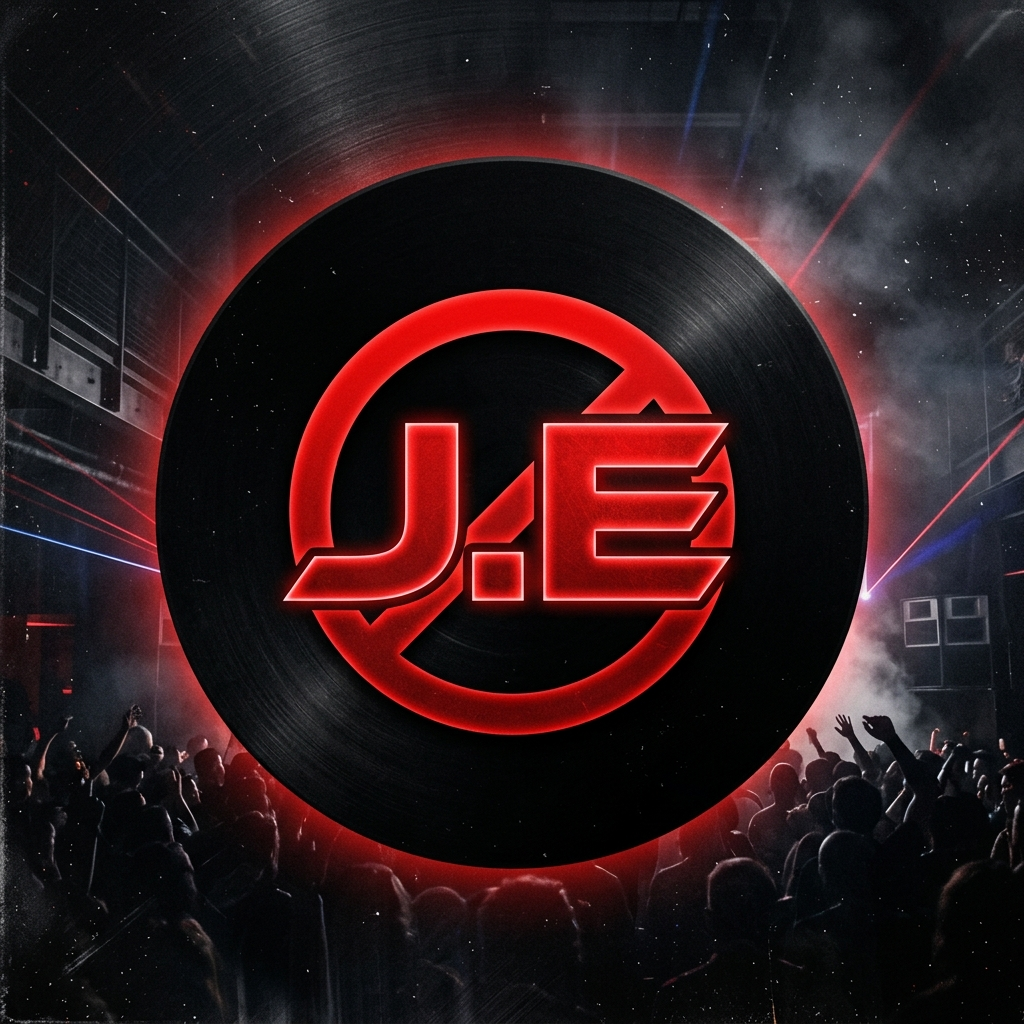
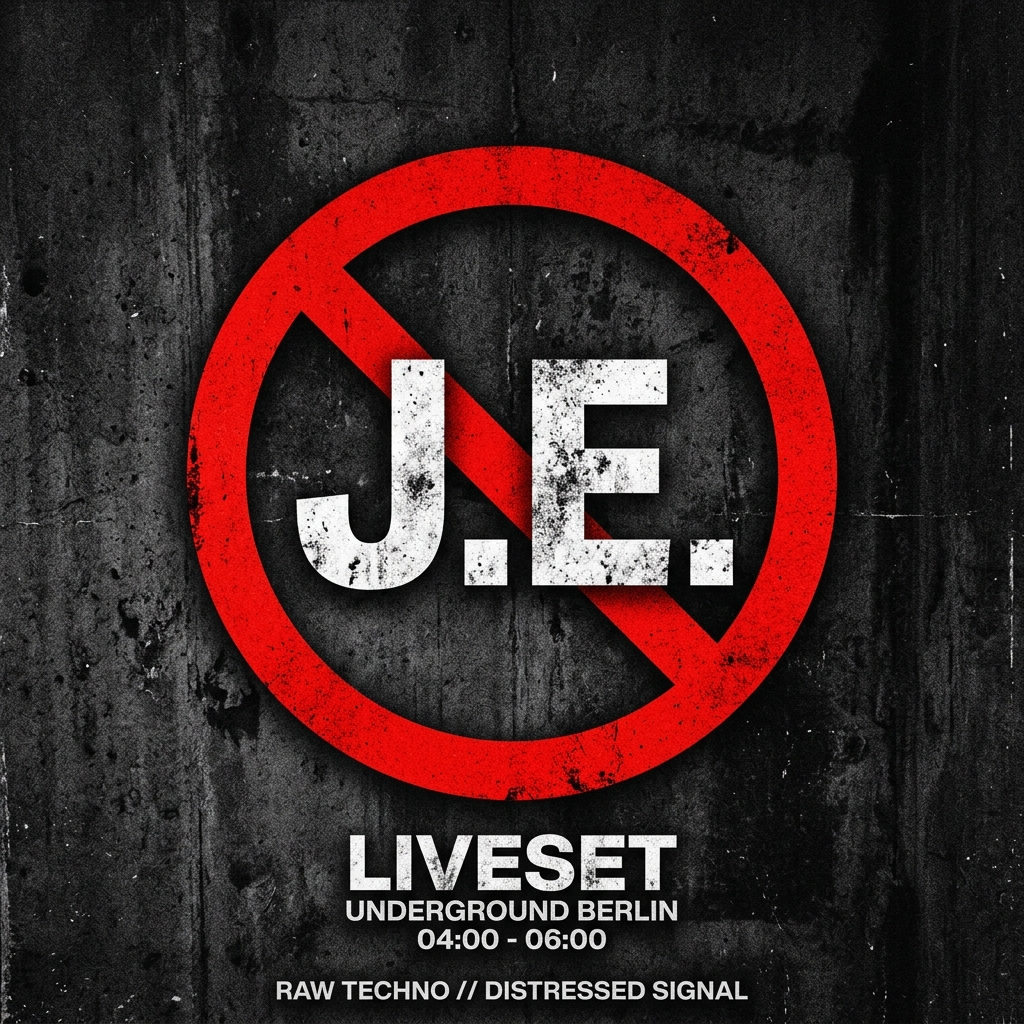
fix: update recording image to resolve visual discrepancies

diff --git a/src/lib/stats-logic.js b/src/lib/stats-logic.js
@@ -5,6 +5,12 @@ const CACHE_CONTROL = 'public, s-maxage=10, stale-while-revalidate=30';
 const SEED_PLAYS = {
     secret_set_2025_12_22: 44
 };
+const EMPTY_STATS_ROW = {
+    plays: 0,
+    likes: 0,
+    dislikes: 0,
+    last_played_at: null
+};
 
 const VALID_UPDATE_TYPES = new Set([
     'play',
@@ -36,8 +42,14 @@ const ensureInitialized = async (sql) => {
                     id TEXT PRIMARY KEY,
                     plays INTEGER DEFAULT 0,
                     likes INTEGER DEFAULT 0,
-                    dislikes INTEGER DEFAULT 0
+                    dislikes INTEGER DEFAULT 0,
+                    last_played_at TIMESTAMP NULL
                 );
+            `;
+
+            await sql`
+                ALTER TABLE track_stats
+                ADD COLUMN IF NOT EXISTS last_played_at TIMESTAMP NULL;
             `;
 
             // Bookings Table
@@ -54,8 +66,8 @@ const ensureInitialized = async (sql) => {
 
             for (const [id, plays] of Object.entries(SEED_PLAYS)) {
                 await sql`
-                    INSERT INTO track_stats (id, plays, likes, dislikes)
-                    VALUES (${id}, ${plays}, 0, 0)
+                    INSERT INTO track_stats (id, plays, likes, dislikes, last_played_at)
+                    VALUES (${id}, ${plays}, 0, 0, NULL)
                     ON CONFLICT (id) DO UPDATE
                     SET plays = GREATEST(track_stats.plays, EXCLUDED.plays);
                 `;
@@ -121,16 +133,27 @@ export const handleStatsRequest = async ({
         }
 
         try {
-            await sql`INSERT INTO track_stats (id, plays, likes, dislikes) VALUES (${id}, 0, 0, 0) ON CONFLICT (id) DO NOTHING;`;
+            await sql`
+                INSERT INTO track_stats (id, plays, likes, dislikes, last_played_at)
+                VALUES (${id}, 0, 0, 0, NULL)
+                ON CONFLICT (id) DO NOTHING;
+            `;
 
-            if (type === 'play') await sql`UPDATE track_stats SET plays = plays + 1 WHERE id = ${id}`;
+            if (type === 'play') {
+                await sql`
+                    UPDATE track_stats
+                    SET plays = plays + 1,
+                        last_played_at = CURRENT_TIMESTAMP
+                    WHERE id = ${id}
+                `;
+            }
             else if (type === 'like') await sql`UPDATE track_stats SET likes = likes + 1 WHERE id = ${id}`;
             else if (type === 'dislike') await sql`UPDATE track_stats SET dislikes = dislikes + 1 WHERE id = ${id}`;
             else if (type === 'unlike') await sql`UPDATE track_stats SET likes = GREATEST(0, likes - 1) WHERE id = ${id}`;
             else if (type === 'undislike') await sql`UPDATE track_stats SET dislikes = GREATEST(0, dislikes - 1) WHERE id = ${id}`;
 
             const [updated] = await sql`SELECT * FROM track_stats WHERE id = ${id}`;
-            return { status: 200, headers, body: updated || { id, plays: 0, likes: 0, dislikes: 0 } };
+            return { status: 200, headers, body: updated || { id, ...EMPTY_STATS_ROW } };
         } catch (error) {
             return { status: 500, headers, body: errorBody('Database update failed', error?.message) };
         }

diff --git a/server/stats-core.js b/server/stats-core.js
@@ -4,6 +4,12 @@ export const statsCorsHeaders = buildCorsHeaders('GET, POST, OPTIONS');
 export const statsCacheHeaders = {
     'Cache-Control': 'public, max-age=0, s-maxage=10, stale-while-revalidate=30'
 };
+const emptyStatsRow = {
+    plays: 0,
+    likes: 0,
+    dislikes: 0,
+    last_played_at: null
+};
 
 const seedPlays = {
     secret_set_2025_12_22: 44
@@ -20,14 +26,20 @@ const ensureInit = async (sql) => {
                 id TEXT PRIMARY KEY,
                 plays INTEGER DEFAULT 0,
                 likes INTEGER DEFAULT 0,
-                dislikes INTEGER DEFAULT 0
+                dislikes INTEGER DEFAULT 0,
+                last_played_at TIMESTAMP NULL
             );
+        `;
+
+        await sql`
+            ALTER TABLE track_stats
+            ADD COLUMN IF NOT EXISTS last_played_at TIMESTAMP NULL;
         `;
 
         for (const [id, plays] of Object.entries(seedPlays)) {
             await sql`
-                INSERT INTO track_stats (id, plays, likes, dislikes)
-                VALUES (${id}, ${plays}, 0, 0)
+                INSERT INTO track_stats (id, plays, likes, dislikes, last_played_at)
+                VALUES (${id}, ${plays}, 0, 0, NULL)
                 ON CONFLICT (id) DO UPDATE
                 SET plays = GREATEST(track_stats.plays, EXCLUDED.plays);
             `;
@@ -58,13 +70,18 @@ export const updateStats = async (sql, id, type) => {
     await ensureInit(sql);
 
     await sql`
-        INSERT INTO track_stats (id, plays, likes, dislikes)
-        VALUES (${id}, 0, 0, 0)
+        INSERT INTO track_stats (id, plays, likes, dislikes, last_played_at)
+        VALUES (${id}, 0, 0, 0, NULL)
         ON CONFLICT (id) DO NOTHING;
     `;
 
     if (type === 'play') {
-        await sql`UPDATE track_stats SET plays = plays + 1 WHERE id = ${id}`;
+        await sql`
+            UPDATE track_stats
+            SET plays = plays + 1,
+                last_played_at = CURRENT_TIMESTAMP
+            WHERE id = ${id}
+        `;
     } else if (type === 'like') {
         await sql`UPDATE track_stats SET likes = likes + 1 WHERE id = ${id}`;
     } else if (type === 'dislike') {
@@ -76,5 +93,5 @@ export const updateStats = async (sql, id, type) => {
     }
 
     const [updated] = await sql`SELECT * FROM track_stats WHERE id = ${id}`;
-    return updated;
+    return updated || { id, ...emptyStatsRow };
 };